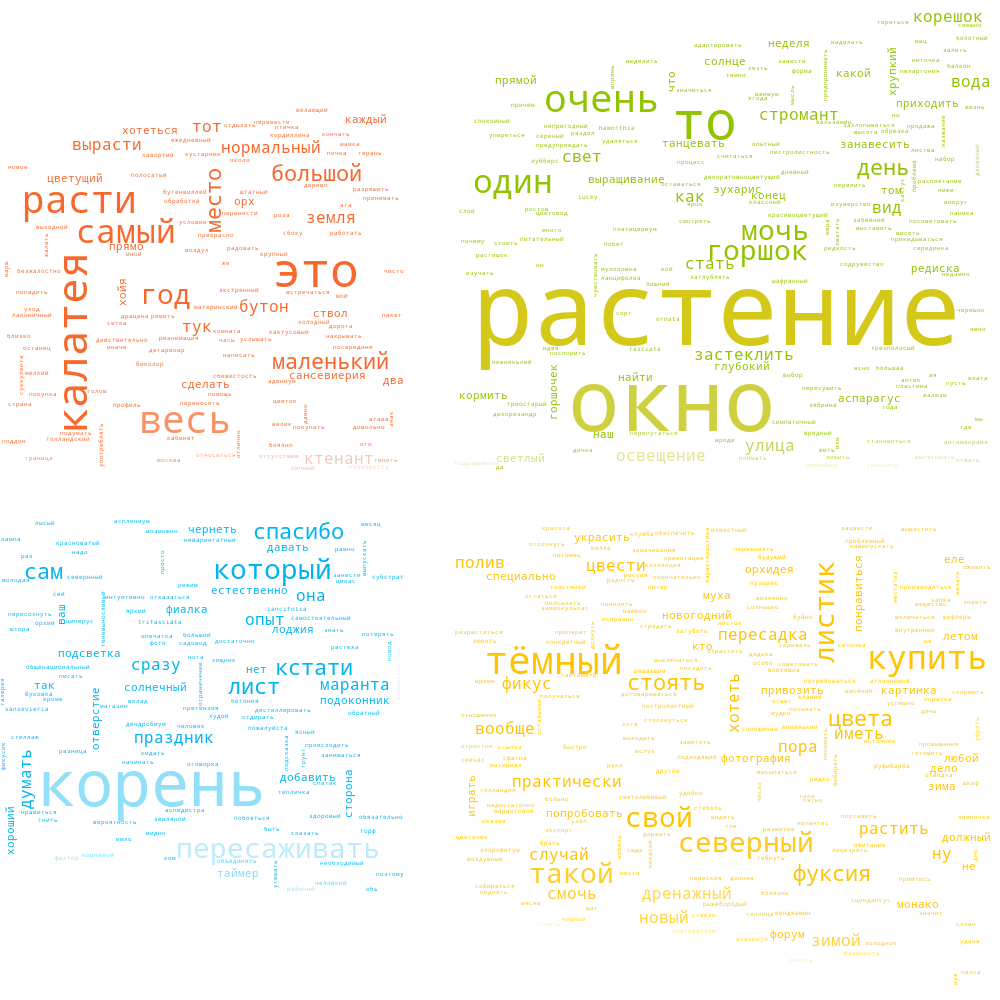
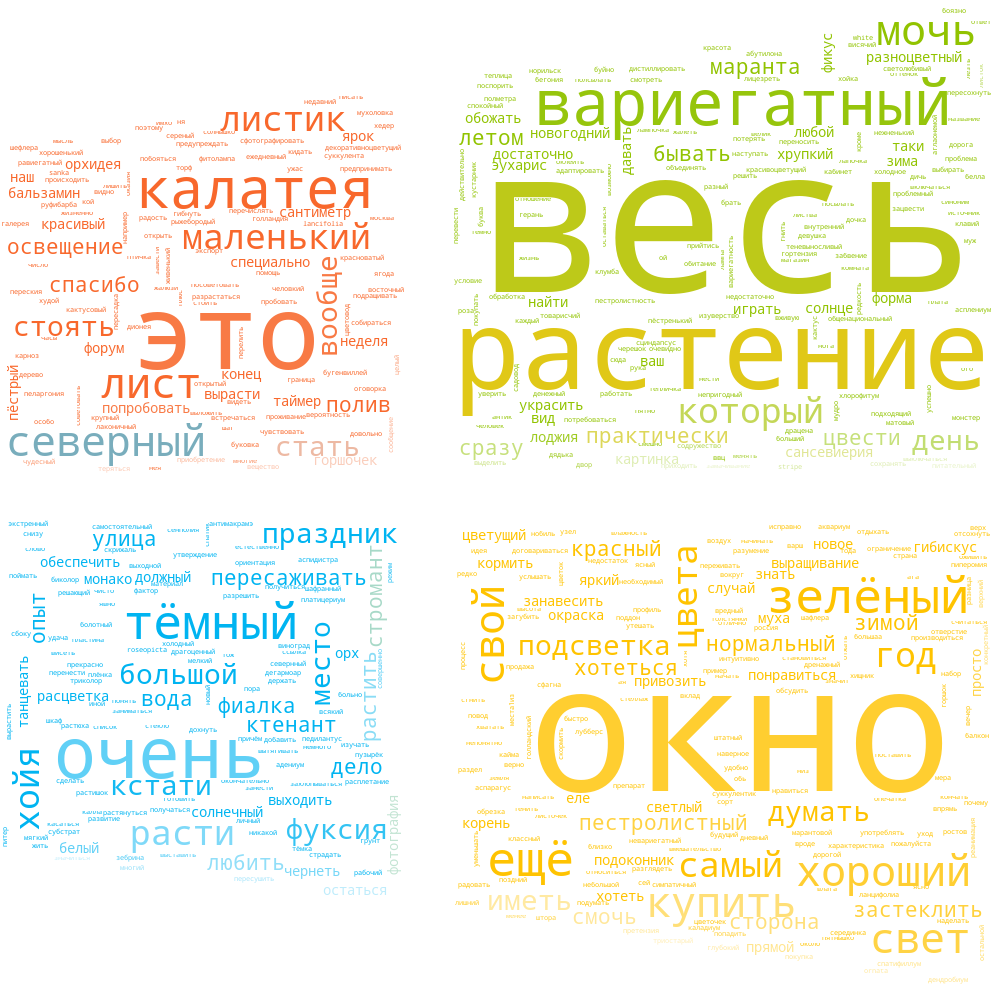
fixed stopwords

diff --git a/services/normalization_service.py b/services/normalization_service.py
@@ -40,8 +40,8 @@ def remove_stopwords(text, lang):
 
 def normalize_text(text, language='russian'):
     data = to_lowercase(text)
-    data = remove_stopwords(data, language)
     data = to_basic_morph(data)
+    data = remove_stopwords(data, language)
     return data
 
 

diff --git a/forum_spider/settings.py b/forum_spider/settings.py
@@ -10,4 +10,4 @@ COOKIES_ENABLED = False
 ITEM_PIPELINES = {
     'forum_spider.pipelines.MongoPipeline': 300,
 }
-LOG_ENABLED=True
+LOG_ENABLED=False
